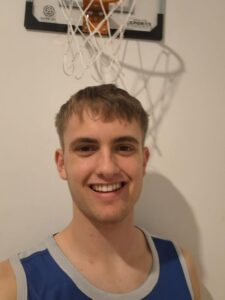
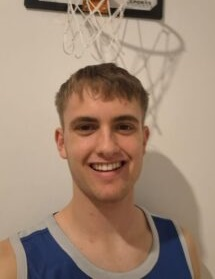
monitor

diff --git a/project_dok/client/actions/monitor.py b/project_dok/client/actions/monitor.py
@@ -22,7 +22,6 @@ class FileOpenerMonitor:
     def open_and_monitor(self):
         try:
             ext = self.file_name.lower()
-
             # הגדרת קבוצות קבצים
             image_exts = ('.jpg', '.jpeg', '.png', '.bmp', '.gif', '.webp')
             code_exts = ('.py', '.java', '.c', '.cpp', '.cs', '.js', '.html', '.css', '.txt', '.json')
@@ -68,9 +67,11 @@ class FileOpenerMonitor:
 
 if __name__ == "__main__":
     # בדוק כאן: main.py, test.txt, image.png וכו'
-    my_file = r"/actions/monitor.py"
+    my_file = r"E:\Project\project_dok\Setting.py"
     if os.path.exists(my_file):
         monitor = FileOpenerMonitor(my_file)
         monitor.start_thread()
+        monitor2 = FileOpenerMonitor(r"E:\Project\project_dok\server\noam\E\tevel.jpg")
+        monitor2.start_thread()
         while True:
             time.sleep(1)
